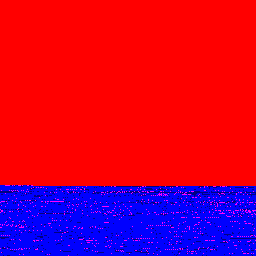
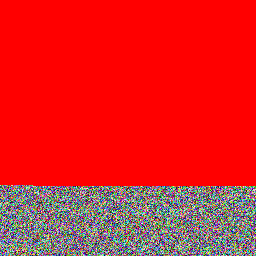
Color lookups working correctly?

Changed region(s): [[0.0, 0.7188, 1.0, 1.0]]

diff --git a/Assets/Scripts/TestLoadCollada.cs b/Assets/Scripts/TestLoadCollada.cs
@@ -47,7 +47,7 @@ public class TestLoadCollada : MonoBehaviour
                 int index = gameWorld.entities[i].vertexColorIndex;
                 Color32 destColor = PropertyData.zoningMappingColors[propData.placeIdToPropertyData[gameWorld.entities[i].name].zone];
                 //destColor = rand;
-                buildingMapper.SetPixel(index % 256, index / 256, destColor);
+                buildingMapper.SetPixel(index % 256, index / 256, rand);
 
                 if (propData.placeIdToPropertyData[gameWorld.entities[i].name].zone == (int)Zones.Comercial)
                 {
@@ -65,7 +65,7 @@ public class TestLoadCollada : MonoBehaviour
             else
             {
                 int index = gameWorld.entities[i].vertexColorIndex;
-                buildingMapper.SetPixel(index % 256, index / 256, Color.magenta);
+                buildingMapper.SetPixel(index % 256, index / 256, rand);// new Color(0,0,0,0));
                 //Debug.LogError($"Could not find building {gameWorld.entities[i].name}");
             }
         }
